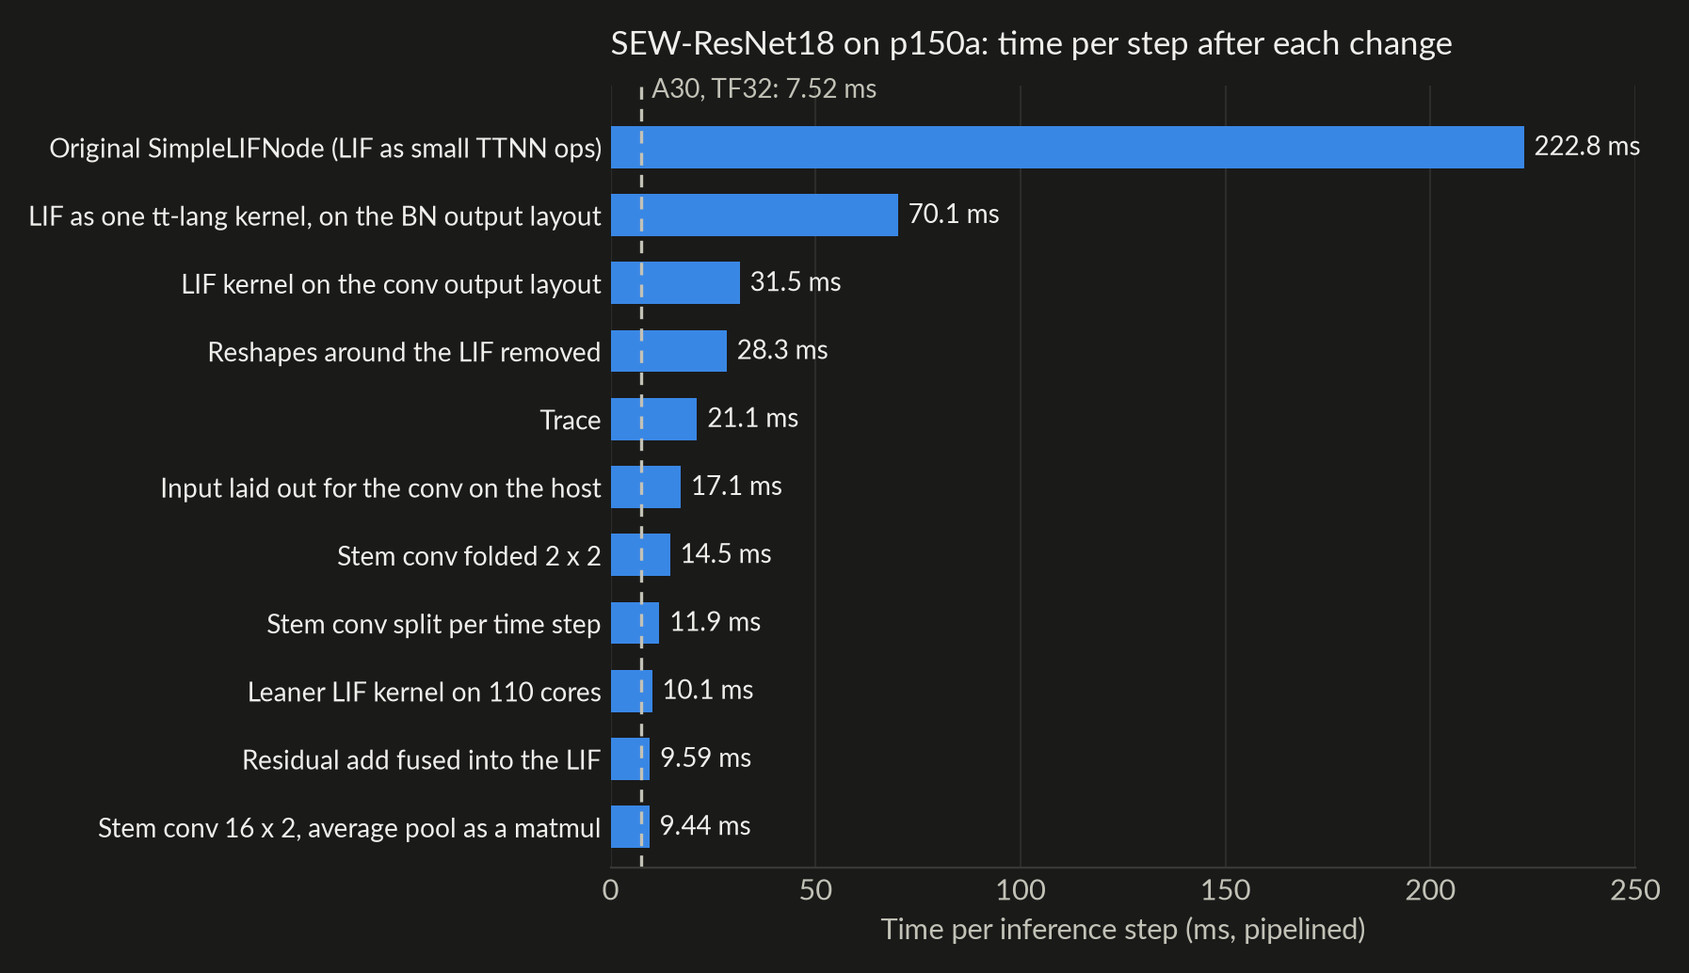
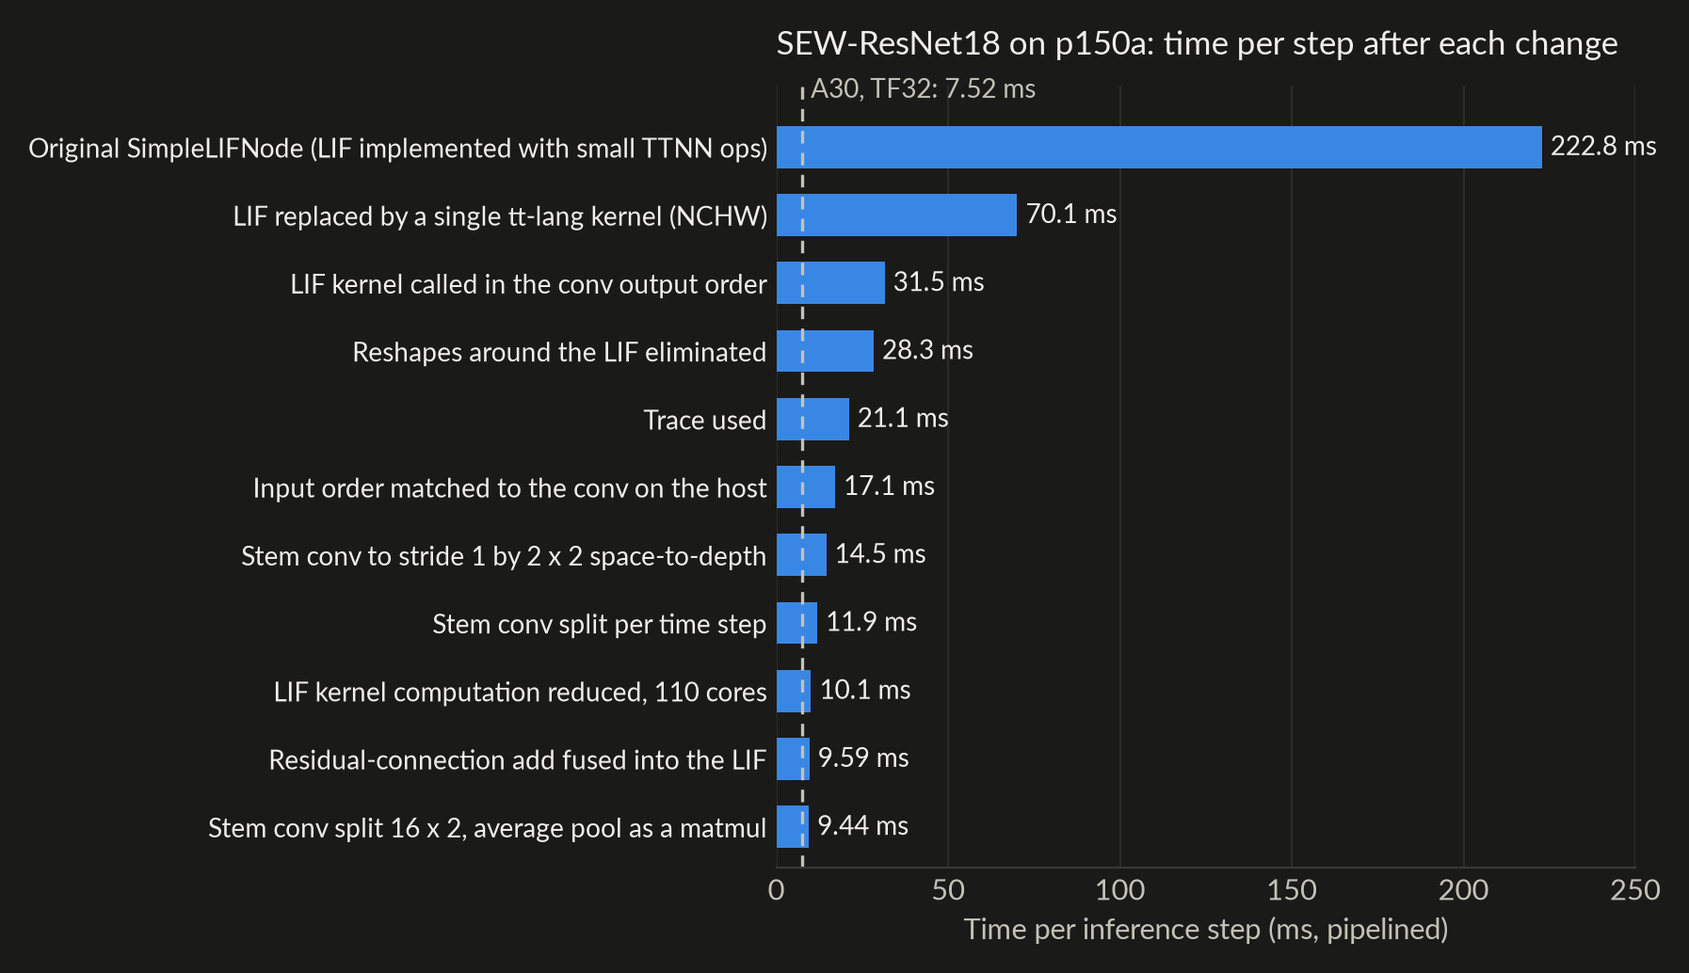
Use precise technical terms in README_ja.md and match the English table and figure
Following the user's own edits, README_ja.md replaces vague verbs and coined words with standard technical terms
(実装, 置換, 融合, 再実行, ディスパッチ, ...). Two rows now say what was done: the stem conv is converted to a
stride-1 conv by 2 x 2 space-to-depth, and the layer4 LIF takes input of shape [1, T, R, C]. The English table and
the step-time figure use the same wording.

diff --git a/README_ja.md b/README_ja.md
@@ -15,71 +15,71 @@ SpikingJelly 2.0 の SEW-ResNet18 の推論を、Tenstorrent Blackhole p150a で
 ## 動機と手法、主張範囲
 Tenstorrent Blackholeアーキテクチャは、格子状に並べたコアを2次元トーラスのNoC（2系統）でつないだ分散メモリのメニコアAIアクセラレータであり、この特徴はNeuromorphic ProcessorであるIntel Loihi/Loihi2に類似している。
 そのため、Spiking Neural Networks (SNN) の高速化に向くと考え、まずは最も広く使われているSNNライブラリの一つであるSpikingJellyで実装された最も有名なモデルの一つであるSEW-ResNetの高速化に取り組む。
-そのうえで、Leaky Integrate-and-Fire Neuronの専用Fused Kernelを作る以外は、通常のTenstorrent hardware向け機械学習フレームワークコンパイラtt-xlaの最適化以外を出来るだけ用いずに高速化したい。ただし、PyTorch側でのモデルの書き換え（stemのconvの折りたたみと分割、平均プーリングの行列積への置き換え、テンソルの並びの変更）と、ホストでの入力の前処理は用いた。
+そのうえで、Leaky Integrate-and-Fire Neuronの専用Fused Kernelを作る以外は、通常のTenstorrent hardware向け機械学習フレームワークコンパイラtt-xlaの最適化以外を出来るだけ用いずに高速化したい。ただし、PyTorch側でのモデルの書き換え（stemのconvのspace-to-depthによる変換と分割、平均プーリングの行列積への置換、テンソルの次元の順序の変更）と、ホストでの入力の前処理は用いた。
 Tenstorrentはエージェントによる最適化を支援するためのskillを提供しているため、これをClaude CodeでOpus5.5が用いることで、半自動で高速化に取り組む。
 Tenstorrent BH p150aへのSNNの実装において、エージェントによるパフォーマンスエンジニアリングがどの程度機能するかのテストであるため、厳密な他種の計算基盤との比較などは現状意図していない。
 TenstorrentハードウェアとSNNの相性について判断するためにはもっと適したSNNの構成が存在するはずだが、まずは有名なものでテストしているため、それについても主張はしない。
 
 ## 結果
 
-条件: SEW-ResNet18（残差結合は ADDを用いる）、入力 224 × 224、batch 8、T = 4、fp32、BatchNorm は推論モード。
+条件: SEW-ResNet18（残差結合は ADD を用いる）、入力 224 × 224、batch 8、T = 4、fp32、BatchNorm は推論モード。
 
-- まとめて同期: k ステップを続けて送信し、最後に 1 回だけ待機する。かかった時間を 1 ステップあたりに直した値。
-- 1 ステップごとに同期: 毎ステップ、logits をホストに読み戻す
+- まとめて同期: k ステップを続けて送信し、最後に 1 回だけ待機する。かかった時間を 1 ステップあたりに換算した値。
+- 1 ステップごとに同期: 毎ステップ、logits をホストへ転送する。
 
 | 段階 | まとめて同期 | 1 ステップごとに同期 |
 | --- | --- | --- |
 | 元の `SimpleLIFNode`（LIF を TTNN の小さな演算で実装していた） | 222.8 ms | 255.8 ms |
-| LIF を tt-lang の 1 カーネルにする（BN の出力の並び NCHW で呼ぶ） | 70.1 ms | 85.7 ms |
+| LIF を tt-lang の単一カーネルに置換する（BN の出力の順序 NCHW で呼び出す） | 70.1 ms | 85.7 ms |
 | LIF のカーネルを conv の出力の順序で呼び出す | 31.5 ms | 43.0 ms |
-| LIF の前後の reshape を排除する。layer4 へ `[1, T, R, C]` の形状で送信する | 28.3 ms | 34.6 ms |
+| LIF の前後の reshape を排除する。layer4 の LIF には `[1, T, R, C]` の形状で入力する | 28.3 ms | 34.6 ms |
 | trace を用いる | 21.1 ms | 27.2 ms |
 | 入力の順序をホストで conv と揃える | 17.1 ms | 22.7 ms |
-| stem の conv を 2 × 2 で格納する | 14.5 ms | 19.6 ms |
-| stem の conv を時刻ごとに分割し、後段のLIF が直接ロードする | 11.9 ms | 17.3 ms |
-| LIF のカーネルの計算を削減し、使用コアを110に増やす | 10.1 ms | 15.5 ms |
+| stem の conv を、2 × 2 の space-to-depth で stride 1 の conv に変換する | 14.5 ms | 19.6 ms |
+| stem の conv を時刻ごとに分割し、後段の LIF が直接ロードする | 11.9 ms | 17.3 ms |
+| LIF のカーネルの計算を削減し、使用コアを 110 に増やす | 10.1 ms | 15.5 ms |
 | 残差結合の加算を LIF と融合させる | 9.59 ms | 14.2 ms |
-| stem の conv を 16 枚 × 2 に分け、平均プーリングを行列積にする | **9.44 ms** | 15.0 ms |
+| stem の conv を 16 枚 × 2 に分割し、平均プーリングを行列積に置換する | **9.44 ms** | 15.0 ms |
 | （参考）A30、TF32 と `cudnn.benchmark` | 7.52 ms | 7.63 ms |
 | （参考）A30、SpikingJelly のベンチマークと同じ厳密な fp32 | 14.75 ms | — |
 
-最後の構成の、1 ステップの時間の内訳は次のとおり。
+最後の構成での、1 ステップの時間の内訳は次のとおり。
 
 <picture>
   <source media="(prefers-color-scheme: dark)" srcset="docs/figures/breakdown-dark.png">
   <img alt="最後の構成の 1 ステップの内訳。p150a は conv 3.71 ms、LIF 2.11 ms、並べ替えなど 1.30 ms、プーリングなど 1.11 ms、stem の conv 0.96 ms。A30 は conv 3.25 ms、LIF 1.54 ms、stem の conv 1.06 ms、BN 0.97 ms、プーリングなど 0.58 ms" src="docs/figures/breakdown-light.png" width="800">
 </picture>
 
-p150a の値は、tt-xla が書き出した TTNN の IR を、演算ごとにデバイスで流し直して測った稼働時間の和（9.19 ms。実際の 1 ステップは 9.44 ms）。流し直しにはコンテナの tt-metal を使った。tt-xla が使う tt-metal とはバージョンが違うので、目安の値である。A30 の値は torch.profiler で測った GPU のカーネル時間の和（7.41 ms。実際は 7.52 ms）。p150a では、BN は conv に畳み込まれ、残差の足し算は LIF に取り込まれている。
+p150a の値は、tt-xla が出力した TTNN の IR を演算ごとにデバイスで再実行し、測定した稼働時間の和（9.19 ms。実測の 1 ステップは 9.44 ms）。再実行にはコンテナ内の tt-metal を用いた。tt-xla が用いる tt-metal とはバージョンが異なるため、目安の値である。A30 の値は torch.profiler で測定した GPU のカーネル時間の和（7.41 ms。実測は 7.52 ms）。p150a では、BN は conv に統合され、残差結合の加算は LIF と融合されている。
 
-### 結果を読むときの注意
+### 結果の解釈上の注意
 
-- 測ったのは速さだけ。重みは初期値のままで、入力は乱数（SpikingJelly のベンチマークと同じ）。学習済みの重みでの精度は見ていない
-- 正しさは同じプロセスで CPU と層ごとに比べて確かめた。数学を変えないはずの変更（並べ替えの削除、分割、融合）では、logits がビット単位で変わらないことを確かめた
-- p150a の conv の出力は仮数 10 ビット程度なので、しきい値の近くでスパイクが反転する。LIF をカーネルにした時点で、デバイスの logits と CPU の logits の相関は 0.911（デバイス上の元の `SimpleLIFNode` は 0.908）。CPU だけで層の出力に丸め程度の乱れを入れても、相関は 0.92 前後で頭打ちになる
-- 後半の段階では、入力の並べ替え、チャネルのゼロ埋め、折りたたみ、時刻ごとの分割をホストで済ませている（trace の下で約 6.6 ms）。この時間は p150a の値に入っていない
-- A30 の値は同じモデルを同じ組み方で動かして測ったもの（LIF は SpikingJelly の `LIFNode` で、A30 では Triton のカーネルで動く）。SpikingJelly のベンチマーク自体は TF32 を切るので、両方の値を載せた
-- バージョン: `pjrt-plugin-tt` 1.4.0（同梱の tt-lang 1.1.5）、torch 2.11.0、torch-xla 2.9.0、p150a のファームウェア 19.15.0。この README と `docs/ja/discrepancies.md` に書いた制約には、このバージョンに限るものがある
+- 測定したのは速度のみ。重みは初期値のままで、入力は乱数（SpikingJelly のベンチマークと同じ）。学習済みの重みでの精度は評価していない。
+- 正確性は、同じプロセスで CPU と層ごとに比較して確認した。数学的に等価なはずの変更（並べ替えの排除、分割、融合）では、logits がビット単位で一致することを確認した。
+- p150a の conv の出力の精度は仮数 10 ビット程度であるため、しきい値の近傍でスパイクが反転する。LIF をカーネル化した時点で、デバイスの logits と CPU の logits の相関は 0.911（デバイス上の元の `SimpleLIFNode` は 0.908）。CPU のみで各層の出力に丸め誤差程度の摂動を加えても、相関は 0.92 前後で下げ止まる。
+- 後半の段階では、入力の次元の並べ替え、チャネルのゼロパディング、space-to-depth、時刻ごとの分割をホストで処理している（trace 使用時で約 6.6 ms）。この時間は p150a の値に含まれない。
+- A30 の値は、同じモデルを同じ構成で実行して測定したもの（LIF は SpikingJelly の `LIFNode` で、A30 では Triton のカーネルとして実行される）。SpikingJelly のベンチマーク自体は TF32 を無効にするため、両方の値を示した。
+- バージョン: `pjrt-plugin-tt` 1.4.0（同梱の tt-lang 1.1.5）、torch 2.11.0、torch-xla 2.9.0、p150a のファームウェア 19.15.0。この README と `docs/ja/discrepancies.md` に記載した制約には、このバージョンに固有のものがある。
 
-## 分かったこと
+## 知見
 
-- trace を使う前は、ホストが演算を 1 つずつデバイスに送る時間で 1 ステップの時間が決まっていた。送る費用は演算 1 つあたり約 70〜360 µs で、A30 の 12〜72 倍
-- ニューロンを要素ごとの演算で書くと、1 層 1 時刻あたり約 7 演算になる。そのため LIF が演算の最大の出どころだった。最初にやることは、ニューロンを 1 層 1 カーネルにすること
-- trace の後は、IR を演算ごとに流し直した稼働時間が、実際の時間をよく予測した（9.19 ms と 9.44 ms）。次の手はこの内訳を見て選べる
-- デバイスの上では、最初は conv よりも並べ替え（`reshape`、`permute`、`to_layout`）のほうが時間がかかっていた。32 × 32 のタイルの倍数でない形の並べ替えは、1 回で約 1 ms かかる。ニューロンのカーネルを前後の演算と同じ並びで呼ぶと、並べ替えは消える
-- スパイクは 0 か 1 で、SEW の足し算の結果も小さな整数なので、どの精度でも正確に表せる。そのため、残差の足し算を LIF に取り込んでも、平均プーリングを 0/1 の行列との積にしても、logits はビット単位で同じだった
-- 並べ替えを消すと、残るのは conv と LIF。stem を除く conv の時間は A30（TF32）とほぼ同じで、LIF は DRAM の帯域でほぼ頭打ちになった。IR の流し直しでは、活性化を L1 に置くと稼働が約 1.9 ms 縮んだ。ただし、tt-xla 1.4.0 にはそれを指定する手段がない
+- trace を用いる前は、ホストが演算を 1 つずつデバイスへディスパッチする時間が、1 ステップの時間を律速していた。ディスパッチのコストは演算 1 つあたり約 70〜360 µs で、A30 の 12〜72 倍。
+- ニューロンを要素ごとの演算で記述すると、1 層 1 時刻あたり約 7 演算になる。そのため LIF が演算数の最大の要因だった。最初に行うべきは、ニューロンを 1 層につき 1 カーネルに融合すること。
+- trace の導入後は、IR を演算ごとに再実行して得た稼働時間が、実測の時間をよく予測した（9.19 ms と 9.44 ms）。次の施策はこの内訳から選べる。
+- デバイス上では、当初は conv よりも並べ替え（`reshape`、`permute`、`to_layout`）のほうが時間を要していた。32 × 32 のタイルの倍数でない形状の並べ替えは、1 回あたり約 1 ms かかる。ニューロンのカーネルを前後の演算と同じ順序で呼び出せば、並べ替えは不要になる。
+- スパイクは 0 か 1 で、SEW の加算の結果も小さな整数であるため、どの精度でも正確に表現できる。そのため、残差結合の加算を LIF と融合しても、平均プーリングを 0/1 の行列との積に置換しても、logits はビット単位で一致した。
+- 並べ替えを排除すると、残るのは conv と LIF。stem を除く conv の時間は A30（TF32）とほぼ同等で、LIF は DRAM 帯域の上限にほぼ達した。IR の再実行では、活性化を L1 に配置すると稼働時間が約 1.9 ms 短縮した。ただし、tt-xla 1.4.0 にはそれを指定する手段がない。
 
-## 再現の仕方
+## 再現手順
 
-環境の作り方は `docs/ja/setup.md` にある。パスは環境変数で書いている。
+環境の構築手順は `docs/ja/setup.md` に記載した。パスは環境変数で表記している。
 
-| 変数 | 中身 |
+| 変数 | 内容 |
 | --- | --- |
-| `$VENV_XLA140` | Python 3.12 の venv。`pjrt-plugin-tt==1.4.0`、torch-xla 2.9.0、SpikingJelly 2.0.0（`--no-deps -e` で入れる） |
-| `$UV_PY312_LIB` | uv が入れた Python 3.12 の `lib`。torch_xla が libpython を見つけるために要る |
+| `$VENV_XLA140` | Python 3.12 の venv。`pjrt-plugin-tt==1.4.0`、torch-xla 2.9.0、SpikingJelly 2.0.0（`--no-deps -e` でインストール） |
+| `$UV_PY312_LIB` | uv でインストールした Python 3.12 の `lib`。torch_xla が libpython を見つけるために必要 |
 | `$VENV_A30` | torch 2.11.0+cu128 と SpikingJelly 2.0.0 の venv |
-| `$DATA` | 結果を書き出す場所 |
+| `$DATA` | 結果の出力先 |
 
 ```bash
 # p150a: まとめて同期で 20 ステップ。batch 8、T = 4、224 × 224、optimization level 1、trace あり
@@ -91,40 +91,40 @@ LIF_GRID=11,10 LIF_RES=1 AVGPOOL=matmul WAIT=cpu LD_LIBRARY_PATH=$UV_PY312_LIB \
 CUDA_VISIBLE_DEVICES=0 TF32=1 CUDNN_BENCH=1 BN=eval $VENV_A30/bin/python -I tools/a30-sew18.py LIFNode 8 4 224 30
 ```
 
-ホストのスレッドはどちらの計測でも、カードと同じ NUMA ノードに固定した。p150a の値は 3 回の実行の中央値。
+どちらの測定でも、ホストのスレッドはカードと同じ NUMA ノードに固定した。p150a の値は 3 回の実行の中央値。
 
-## ファイルの一覧
+## ファイル構成
 
-| パス | 中身 |
+| パス | 内容 |
 | --- | --- |
-| `tools/ttl_lif.py` | tt-lang で書いた複数時刻の LIF のカーネル（`make_lif`、`make_lif4`、`make_lif2`、`make_lif_add`、`make_lif_nchw`） |
-| `tools/xla-sew18.py` | tt-xla で SEW-ResNet18 を p150a に流して測る。表の各段階を環境変数で切り替えられる |
-| `tools/a30-sew18.py`、`tools/a30-sew18-profile.py` | 同じモデルを A30 で測る。層ごとの GPU の時間も出す |
-| `tools/ttnn-replay-ir.py`、`tools/ttnn-replay-chain.py` | tt-xla が書き出した TTNN の IR を演算ごとに（または出力をつないで、L1 に置いて）流し直し、デバイスのプロファイラで測る |
-| `tools/breakdown-sew18.py`、`tools/chain-csv.py` | 種類ごと、層ごとの内訳と、時間の下限を出す |
-| `tools/ttl-lif-bench.py` | SEW-ResNet18 の形で、LIF のカーネルのデバイス時間を測る |
-| `tools/xla-op-hostcost.py`、`tools/thread-sampler.py` | 演算 1 つあたりのホストの費用を測る。待っている間の、スレッドごとの CPU の周波数を記録する |
+| `tools/ttl_lif.py` | tt-lang で記述した、複数時刻の LIF のカーネル（`make_lif`、`make_lif4`、`make_lif2`、`make_lif_add`、`make_lif_nchw`） |
+| `tools/xla-sew18.py` | tt-xla で SEW-ResNet18 を p150a 上で実行し、測定する。表の各段階は環境変数で切り替える |
+| `tools/a30-sew18.py`、`tools/a30-sew18-profile.py` | 同じモデルを A30 で測定する。層ごとの GPU 時間も出力する |
+| `tools/ttnn-replay-ir.py`、`tools/ttnn-replay-chain.py` | tt-xla が出力した TTNN の IR を演算ごとに（または出力を連結し、L1 に配置して）再実行し、デバイスのプロファイラで測定する |
+| `tools/breakdown-sew18.py`、`tools/chain-csv.py` | 種類別、層別の内訳と、時間の下限を算出する |
+| `tools/ttl-lif-bench.py` | SEW-ResNet18 の形状で、LIF のカーネルのデバイス時間を測定する |
+| `tools/xla-op-hostcost.py`、`tools/thread-sampler.py` | 演算 1 つあたりのホスト側のコストを測定する。待機中のスレッドごとの CPU 周波数を記録する |
 | `tools/lif-d22-emul.py`、`tools/xla-conv-check.py`、`tools/xla-stem-pad.py`、`tools/xla-bn-eval.py`、`tools/xla-op-backward.py`、`tools/sj_xla.py` | `discrepancies.md` の制約を再現するスクリプトと回避策 |
-| `docs/ja/` | 作業の記録（日本語） |
+| `docs/ja/` | 作業記録（日本語） |
 | `docs/figures/` | この README の図 |
 
-## 作業の記録
+## 作業記録
 
 `docs/ja/` には次の 3 つの文書がある。
 
-- `speedup-guide.md`: ほかの SNN を速くするときの進め方。効果のあった手と、なかった手
-- `discrepancies.md`: 前提と実際が違っていたこと、ツールの制約と不具合（D1〜D32）
-- `setup.md`: 環境、スクリプトの使い方、LIF のカーネルの式
+- `speedup-guide.md`: 他の SNN を高速化する際の手順。効果のあった施策と、なかった施策。
+- `discrepancies.md`: 前提と実際の相違、ツールの制約と不具合（D1〜D32）。
+- `setup.md`: 環境、スクリプトの使用方法、LIF のカーネルの式。
 
-文書とコードのコメントにある S 番号は公開していない作業記録の番号。
+文書とコードのコメント中の S 番号は、非公開の作業記録の番号。
 
 ## 次の段階
 
-Blackhole の上で、重み、膜電位、スパイクを Tensix コアの L1 に置いたまま、全コアを 1 時刻に 1 回同期させて SNN を動かす方向へ進めている。
+Blackhole 上で、重み、膜電位、スパイクを Tensix コアの L1 に保持したまま、全コアを 1 時刻に 1 回同期させて SNN を実行する方式の開発を進めている。
 
 ## ライセンス
 
-Apache-2.0（`LICENSE`）。スクリプトが使う SpikingJelly、tt-xla、tt-lang、TT-NN も Apache-2.0 で、このリポジトリには含めていない。
+Apache-2.0（`LICENSE`）。スクリプトが用いる SpikingJelly、tt-xla、tt-lang、TT-NN も Apache-2.0 で、このリポジトリには含めていない。
 
 ## 引用
 

diff --git a/README.md b/README.md
@@ -34,24 +34,25 @@ testing with a well-known model first, we make no claim about that either.
 
 ## Results
 
-Conditions: SEW-ResNet18 (ADD connections), 224 x 224 input, batch 8, T = 4, fp32, BatchNorm in inference mode.
+Conditions: SEW-ResNet18 (ADD residual connections), 224 x 224 input, batch 8, T = 4, fp32, BatchNorm in inference
+mode.
 
-- Pipelined: k steps are submitted back to back and waited for once; the time is divided by k
-- Synced: the logits are read back to the host after every step
+- Pipelined: k steps are sent back to back and waited for once; the time is converted to one step.
+- Synced: the logits are transferred to the host after every step.
 
 | Change | Pipelined | Synced |
 | --- | --- | --- |
-| Original `SimpleLIFNode` (LIF as small TTNN ops) | 222.8 ms | 255.8 ms |
-| LIF as one tt-lang kernel, called on the BN output layout (NCHW) | 70.1 ms | 85.7 ms |
-| LIF kernel called on the conv output layout | 31.5 ms | 43.0 ms |
-| Reshapes around the LIF removed; layer4 passed as `[1, T, R, C]` | 28.3 ms | 34.6 ms |
-| Trace | 21.1 ms | 27.2 ms |
-| Input laid out for the conv on the host | 17.1 ms | 22.7 ms |
-| Stem conv folded 2 x 2 | 14.5 ms | 19.6 ms |
-| Stem conv split per time step, read directly by the LIF | 11.9 ms | 17.3 ms |
-| Leaner LIF kernel on 110 cores | 10.1 ms | 15.5 ms |
-| Residual add fused into the LIF | 9.59 ms | 14.2 ms |
-| Stem conv as 16 images x 2, average pool as a matmul | **9.44 ms** | 15.0 ms |
+| Original `SimpleLIFNode` (the LIF was implemented with small TTNN ops) | 222.8 ms | 255.8 ms |
+| LIF replaced by a single tt-lang kernel (called in the dimension order of the BN output, NCHW) | 70.1 ms | 85.7 ms |
+| LIF kernel called in the dimension order of the conv output | 31.5 ms | 43.0 ms |
+| Reshapes around the LIF eliminated; the layer4 LIF takes input of shape `[1, T, R, C]` | 28.3 ms | 34.6 ms |
+| Trace used | 21.1 ms | 27.2 ms |
+| Input dimension order matched to the conv on the host | 17.1 ms | 22.7 ms |
+| Stem conv converted to a stride-1 conv by 2 x 2 space-to-depth | 14.5 ms | 19.6 ms |
+| Stem conv split per time step; the following LIF loads its outputs directly | 11.9 ms | 17.3 ms |
+| Computation in the LIF kernel reduced; cores in use increased to 110 | 10.1 ms | 15.5 ms |
+| Residual-connection add fused into the LIF | 9.59 ms | 14.2 ms |
+| Stem conv split into 16 images x 2; average pool replaced by a matmul | **9.44 ms** | 15.0 ms |
 | (reference) A30, TF32 and `cudnn.benchmark` | 7.52 ms | 7.63 ms |
 | (reference) A30, strict fp32 as in SpikingJelly's benchmark | 14.75 ms | — |
 
